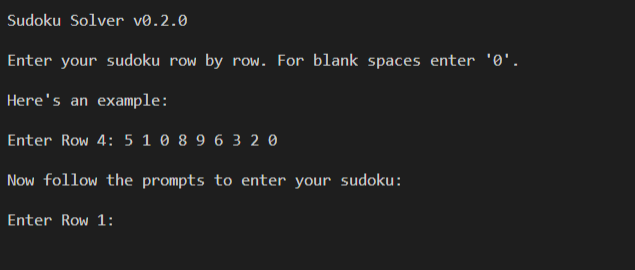
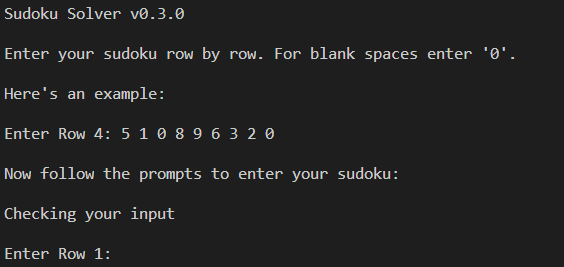
Improved algorithm, added more checks on user input and fixed some small bugs

diff --git a/sudoku.py b/sudoku.py
@@ -1,32 +1,48 @@
 class Sudoku:
     def __init__(self, rows):
         self.rows = rows
-        
-        #Constructs list for easy access of the columns of the sudoku
-        cols = []
-        for i in range(9):
-            col = []
-            for row in rows:
-                col.append(row[i])
-            cols.append(col)
-        self.cols = cols
 
-        # Constructs list for easy access of the boxes of the sudoku
-        boxes = []
-        temp = [0,3,6]
-        for m in temp:
-            for n in temp:
-                box = []
-                for j in range(3):
-                    for k in range(3):
-                        box.append(rows[m+j][n+k])
-                boxes.append(box)
-        self.boxes = boxes
+    def cols(self, n):
+        # Method for fast access of the columns of the sudoku
+        col = [self.rows[i][n] for i in range(9)]
+        return col
+
+    def box(self, a, b):
+        # Method for fast access of the boxes of the sudoku
+        m = a - a%3
+        n = b - b%3
+
+        box = list()
+        for j in range(3):
+            for k in range(3):
+                box.append(self.rows[m+j][n+k])
+        
+        return box
 
     def cpy(self):
         # Faster alternative to deepcopy function
         row_copy = [[r for r in row] for row in self.rows]
         return row_copy
+
+    # Method to check inital entry
+    def correctEntry(self):
+        numbers = [1,2,3,4,5,6,7,8,9]
+        for j in range(9):
+            if not all([(self.rows[j]).count(i) < 2 for i in numbers]): return False
+            elif not all([(self.cols(j)).count(i) < 2 for i in numbers]): return False 
+            elif not all([( self.box( j, (j*3)%9 ) ).count(i) < 2 for i in numbers]): return False
+            else: continue
+        return True
+
+    # Checks whether sudoku solution is correct
+    def isCorrect(self):
+        numbers = [1,2,3,4,5,6,7,8,9]
+        for j in range(9):
+            if not all([i in self.rows[j] for i in numbers]): return False
+            elif not all([i in self.cols(j) for i in numbers]): return False
+            elif not all([i in self.box( j, (j*3)%9 ) for i in numbers]): return False
+            else: continue
+        return True
 
 def solveSudoku(sudoku):
     numbers = [1,2,3,4,5,6,7,8,9]
@@ -38,7 +54,7 @@ def solveSudoku(sudoku):
             if s.rows[i][j] == 0:
                 #Tries all possible numbers from 1 to 9
                 for n in numbers:
-                    if (n not in s.rows[i]) and (n not in s.cols[j]) and (n not in s.boxes[ 3*int(i/3) + int(j/3) ]):
+                    if (n not in s.rows[i]) and (n not in s.cols(j)) and (n not in s.box(i,j)):
                         try:
                             temp = Sudoku(s.cpy())
                             temp.rows[i][j] = n
@@ -55,28 +71,8 @@ def solveSudoku(sudoku):
     #At this point all squares should be filled
     return s.rows
 
-# Checks whether sudoku solution is correct
-def isCorrect(sudoku):
-    numbers = [1,2,3,4,5,6,7,8,9]
-    for row in sudoku:
-        if row.count(0) > 0: return False
-        if all(i in row for i in numbers): continue
-        return False
-    for col in sudoku:
-        if all(i in col for i in numbers): continue
-        return False
-    for box in sudoku:
-        if all(i in box for i in numbers): continue
-        return False
-    return True
-
-def main():
-
-    print("\nSudoku Solver v0.2.0 \n \nEnter your sudoku row by row. For blank spaces enter '0'. \n")
-    print("Here's an example: \n ")
-    print("Enter Row 4: 5 1 0 8 9 6 3 2 0")
-    print("\nNow follow the prompts to enter your sudoku: \n")
-
+def userInput():
+    
     grid = list()
     numbers = range(10)
 
@@ -101,18 +97,39 @@ def main():
                 print("ERROR: Please try again")
                 pass
     
+    # Checks that input is correct
+    test = Sudoku(grid)
+    if not test.correctEntry():
+        print("\nLooks like your input is incorrect! Please try again:\n")
+        grid = userInput()
+    del test
+    
+    return grid
+
+def main():
+
+    print("\nSudoku Solver v0.3.0 \n \nEnter your sudoku row by row. For blank spaces enter '0'. \n")
+    print("Here's an example: \n ")
+    print("Enter Row 4: 5 1 0 8 9 6 3 2 0")
+    print("\nNow follow the prompts to enter your sudoku: \n")
+
+    print("Checking your input\n")
+    grid = userInput()
+
     try:
+        print("\nSolving your sudoku")
         ans = solveSudoku(grid)
+        
+        print("\nSolution: \n")
+        for rows in ans:
+            print(rows)
+        
+        a = Sudoku(ans)
+        if not a.isCorrect():
+            print("Sorry, this solution is not correct! \nPlease check you entered your sudoku correctly, if you are sure you have entered correctly then you may have found a bug! \n You can report this to svaidya0 on github along with sudoku you were trying to solve. \nThank you :)")
+        else:
+            print("\nThank you for using my Sudoku Solver!")
     except:
         print("There was an error trying to solve the sudoku! \nPlease check you entered your sudoku correctly, if you are sure you have entered correctly then you may have found a bug! \n Would very much appreciate if you report this to svaidya0 on github along with sudoku you were trying to solve. \n Thank you :) ")
-
-    print("\nSolution: \n")
-    for rows in ans:
-        print(rows)
-
-    if not isCorrect(ans):
-        print("Sorry, this solution is not correct! \nPlease check you entered your sudoku correctly, if you are sure you have entered correctly then you may have found a bug! \n Would very much appreciate if you report this to svaidya0 on github along with sudoku you were trying to solve. \nThank you :)")
-    
-    print(" \n Thank you for using my Sudoku Solver!")
 
 main()

diff --git a/README.md b/README.md
@@ -35,12 +35,15 @@ In this way, all entries will eventually be filled and so the solution has been 
 
 ## Features to be implemented
 
-* Methods to catch more possibilities of wrong user input
-* GUI interface for input and/or output
+* GUI for input and/or output
 * Improving efficiency of main algorithm
 
 ## Release History
 
+* 0.3.0
+    * ADD: Added `cols()` and `box()` which almost halves the solving time
+    * ADD: Added `correctEntry()` method which checks the intial input
+    * FIX: Corrected the `isCorrect()` method
 * 0.2.0
     * ADD: Added `isCorrect()` to check whether solution to sudoku follows sudoku rules
 * 0.1.0
